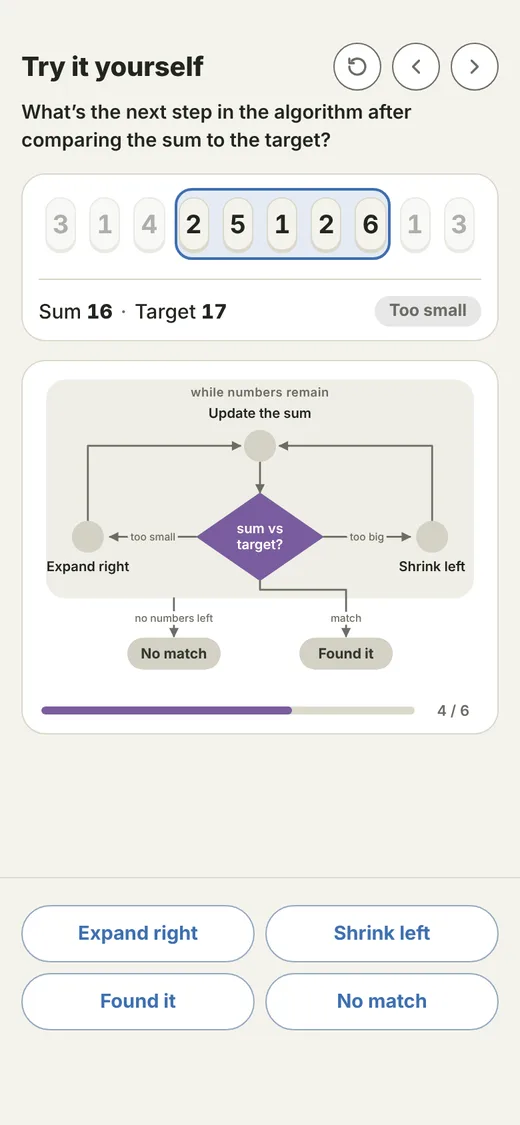
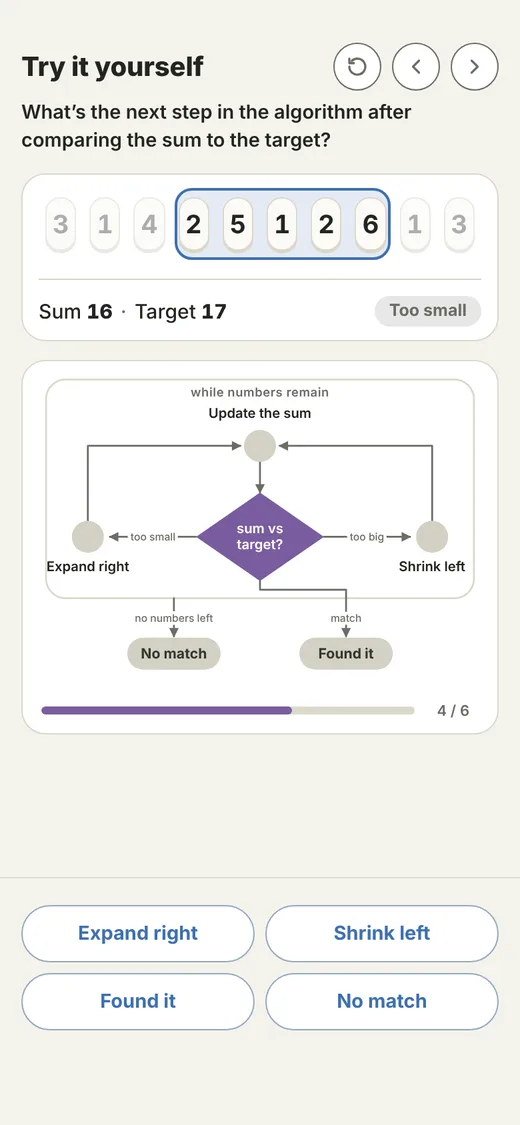
Sliding window: flowchart region outlined, tiles near-white to cut beige/white alternation
Claude-Session: https://claude.ai/code/session_01B6u6w9fTGNxU2tRw6eReYt

diff --git a/public/sliding-window.html b/public/sliding-window.html
@@ -5,7 +5,7 @@
 <style>
 :root{
   --bg:#F4F3ED;--card:#FFFFFF;--line:#DAD8CB;--ink:#22251F;--mut:#6B6C62;
-  --ok:#3E6FB0;--onok:#FFFFFF;--tile:#F4F3ED;--fn:#D3D1C4;--loopbg:#EFEEE6;--fnt:#33362E;--fa:#7A5C9E;--fat:#FFFFFF;--under:#3E6FB0;--small:#6B6C62;--over:#BE6A38;--hit:#4F8A62;--gold:#D99A00;--btn:#16181D;--onbtn:#FFFFFF;
+  --ok:#3E6FB0;--onok:#FFFFFF;--tile:#FBFAF6;--fn:#D3D1C4;--loopbg:#EFEEE6;--fnt:#33362E;--fa:#7A5C9E;--fat:#FFFFFF;--under:#3E6FB0;--small:#6B6C62;--over:#BE6A38;--hit:#4F8A62;--gold:#D99A00;--btn:#16181D;--onbtn:#FFFFFF;
   --font:'Figtree',system-ui,-apple-system,'Segoe UI',Roboto,sans-serif;
   --ease:cubic-bezier(.3,.8,.3,1);
 }
@@ -219,10 +219,10 @@ code{font:600 .86em ui-monospace,SFMono-Regular,Menlo,monospace;background:color
 .cap b{font-weight:800;font-variant-numeric:tabular-nums}
 /* flowchart: a shaded loop region, neutral nodes, the current step lights up */
 #flow{display:block;width:100%;height:auto}
-#flow .region{fill:var(--loopbg)}
+#flow .region{fill:none;stroke:var(--line);stroke-width:1.5}
 #flow .lp{fill:var(--mut);font:600 10px var(--font);text-anchor:middle;letter-spacing:.03em}
 #flow .e{fill:none;stroke:var(--mut);stroke-width:1.5;stroke-linecap:round;stroke-linejoin:round}
-#flow .lb{fill:var(--mut);font:500 8.5px var(--font);text-anchor:middle;dominant-baseline:central;paint-order:stroke;stroke:var(--loopbg);stroke-width:5;stroke-linejoin:round}
+#flow .lb{fill:var(--mut);font:500 8.5px var(--font);text-anchor:middle;dominant-baseline:central;paint-order:stroke;stroke:var(--card);stroke-width:5;stroke-linejoin:round}
 #flow .lb.o{stroke:var(--card)}
 #flow .t{fill:var(--ink);font:600 11px var(--font);text-anchor:middle}
 #flow .dt{fill:var(--fnt);font:600 11px var(--font);text-anchor:middle;transition:fill .25s}
